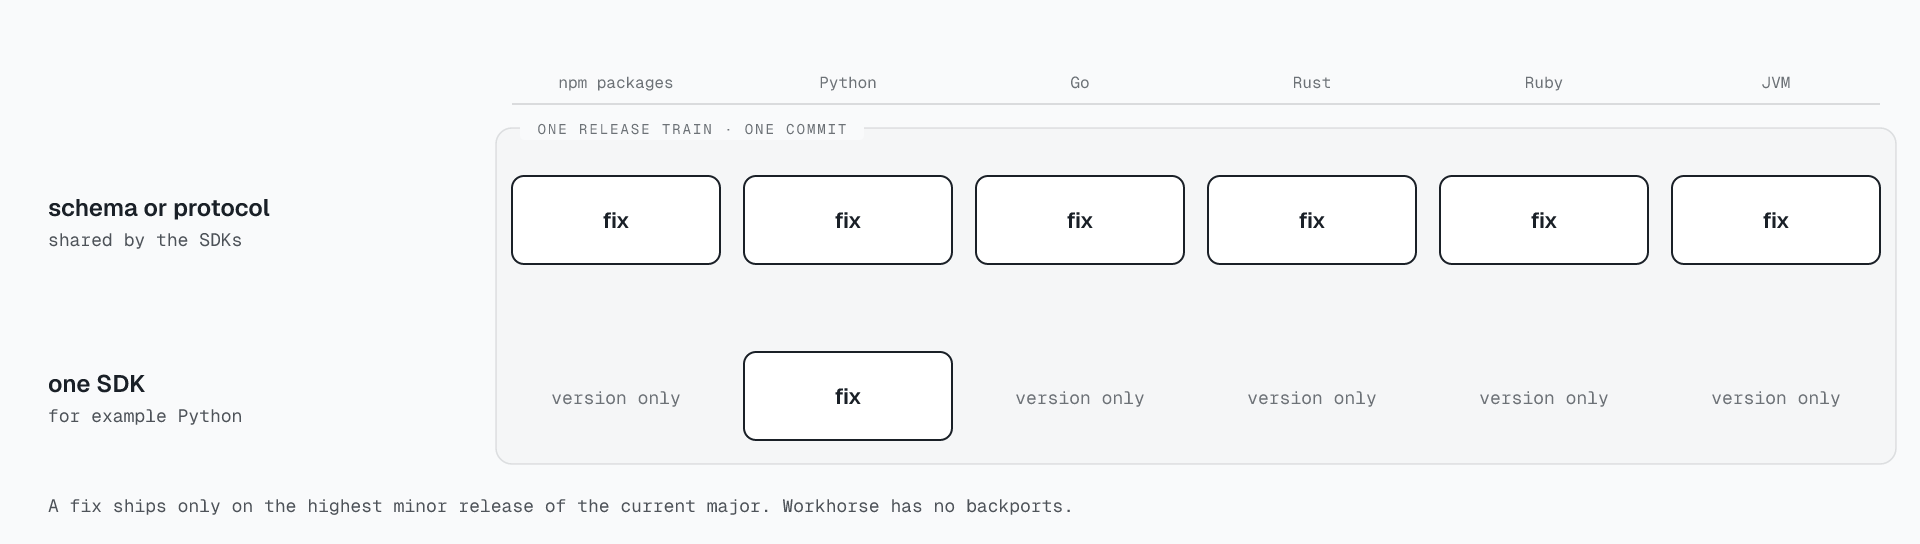
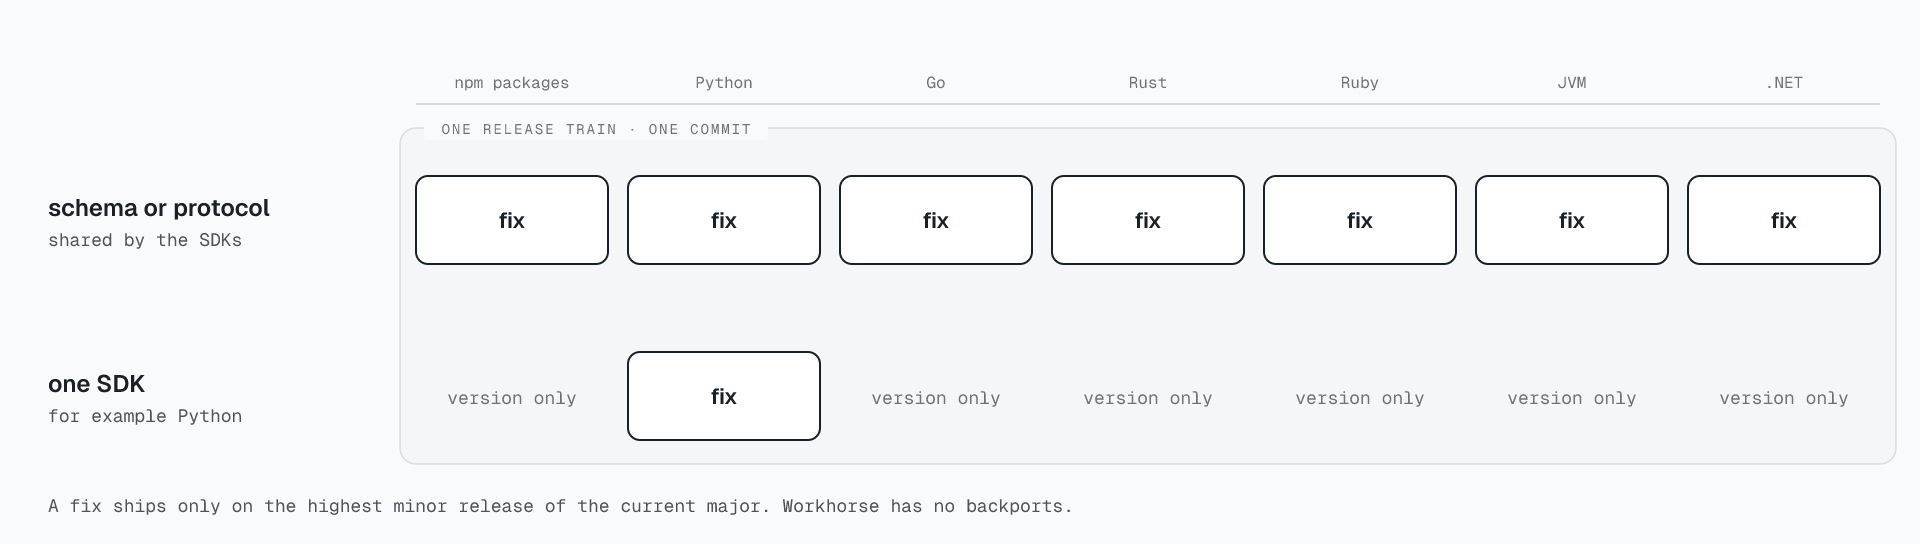
SM-1826 Name nuget.org on the install pages and the releases diagram
Release 0.10.0 published the four .NET packages to nuget.org. The
install pages, the .NET README, and several records still said that
NuGet does not serve the packages, so a .NET reader found no install
command. The releases diagram showed six lines and no .NET column,
although the releases page names seven lines.

Add `dotnet add package Workhorse` to the install surfaces: the .NET
README, the site installation, quickstart, and agent pages, and the
agent integration guide. The .NET README and the installation page
also give the commands for Workhorse.Hosting,
Workhorse.EntityFrameworkCore, and Workhorse.AspNetCore. State that
nuget.org serves the packages from 0.10.0 in docs/compatibility.md,
docs/features.md, and the amendment lines of ADR 0021, ADR 0054, and
ADR 0059. The install command test now requires install.dotnet on
those surfaces and keeps only the Gradle and Maven commands off the
README and site pages. A new rule requires the commands of the three
optional packages on the .NET README and the installation page.

Add a .NET column to the releases diagram. Narrow the columns so
seven columns fit the 960 px width, name the .NET line in the diagram
description, and generate the SVG and PNG files again.

diff --git a/scripts/install-commands.test.ts b/scripts/install-commands.test.ts
@@ -33,9 +33,9 @@ import { publishedPackages, repositoryRoot } from "./packages.js";
 // their only surface until then.
 //
 // A NuGet package needs no version: `dotnet add package` adds the newest release, so
-// `install.dotnet` follows the no-version rule. It names the core, `Workhorse`. No README or site
-// page shows it before NuGet serves the packages (SM-1441), so `docs/compatibility.md` is its only
-// surface until then.
+// `install.dotnet` follows the no-version rule. It names the core, `Workhorse`. nuget.org serves
+// the four packages from 0.10.0 (SM-1826), so the .NET README, the install pages, and
+// `docs/compatibility.md` show it.
 
 const execFileAsync = promisify(execFile);
 
@@ -86,22 +86,46 @@ const governedSurfaces: readonly GovernedSurface[] = [
   { file: "rust/README.md", commands: ["rust", "schemaPinned"] },
   { file: "ruby/README.md", commands: ["ruby", "schemaPinned"] },
   { file: "jvm/README.md", commands: ["schemaPinned"] },
-  { file: "dotnet/README.md", commands: ["schemaPinned"] },
+  { file: "dotnet/README.md", commands: ["dotnet", "schemaPinned"] },
   {
     file: "site/content/docs/installation.mdx",
-    commands: ["go", "node", "python", "ruby", "rust", "schema", "schemaDownload", "schemaPinned"],
+    commands: [
+      "dotnet",
+      "go",
+      "node",
+      "python",
+      "ruby",
+      "rust",
+      "schema",
+      "schemaDownload",
+      "schemaPinned",
+    ],
   },
   {
     file: "site/content/docs/quickstart.mdx",
-    commands: ["go", "node", "python", "ruby", "rust", "schema", "schemaPinned"],
+    commands: ["dotnet", "go", "node", "python", "ruby", "rust", "schema", "schemaPinned"],
   },
   {
     file: "site/content/docs/for-ai-agents.mdx",
-    commands: ["go", "node", "python", "ruby", "rust", "schema", "schemaPinned"],
+    commands: ["dotnet", "go", "node", "python", "ruby", "rust", "schema", "schemaPinned"],
+  },
+  {
+    file: "docs/guides/385-agent-integration.md",
+    commands: ["dotnet", "go", "node", "python", "ruby", "rust"],
   },
   { file: "site/content/docs/api.mdx", commands: ["schema", "schemaPinned"] },
   { file: "docs/compatibility.md", commands: ["dotnet", "gradle", "maven"] },
 ];
+
+/** The .NET packages that a project adds beside `Workhorse` when it uses them (ADR 0107). */
+const optionalDotnetPackages = [
+  "Workhorse.Hosting",
+  "Workhorse.EntityFrameworkCore",
+  "Workhorse.AspNetCore",
+] as const;
+
+/** The pages that list the four .NET packages with an install command for each. */
+const dotnetPackagePages = ["dotnet/README.md", "site/content/docs/installation.mdx"] as const;
 
 /** Markdown wraps prose at will, so a sentence rule compares runs of whitespace as one space. */
 function collapse(contents: string): string {
@@ -277,13 +301,28 @@ describe("install commands", () => {
     );
   });
 
-  it("keeps the Gradle, Maven, and NuGet commands off the README and site pages until the registries serve them", async () => {
+  // `install.dotnet` names only the core. The other three packages of ADR 0107 are optional, so
+  // support.json does not state them, but the two pages that list all four must give each command.
+  it("gives the command of each optional .NET package on the pages that list all four", async () => {
+    const missing: string[] = [];
+
+    for (const file of dotnetPackagePages) {
+      const contents = await read(file);
+      for (const id of optionalDotnetPackages) {
+        if (!contents.includes(`dotnet add package ${id}\n`)) missing.push(`${file}: ${id}`);
+      }
+    }
+
+    expect(missing).toEqual([]);
+  });
+
+  it("keeps the Gradle and Maven commands off the README and site pages", async () => {
     const manifest = await readInstallManifest();
     const shown: string[] = [];
 
     for (const [file, contents] of await documentedSurfaces()) {
       if (!file.endsWith("README.md") && !file.startsWith("site/")) continue;
-      for (const key of ["dotnet", "gradle", "maven"] as const) {
+      for (const key of ["gradle", "maven"] as const) {
         if (contents.includes(manifest.install[key])) shown.push(`${file}: install.${key}`);
       }
     }

diff --git a/scripts/releases-diagram.ts b/scripts/releases-diagram.ts
@@ -16,29 +16,30 @@ type Kind = "focal" | "backend" | "store" | "external";
 
 const title = "The location of the defect decides which lines change in a release train";
 const description =
-  "Each fix ships in a release train that publishes the npm packages, Python, Go, Rust, Ruby, and " +
-  "JVM lines at one version. If the defect is in the SQL schema or in the protocol that the SDKs " +
+  "Each fix ships in a release train that publishes the npm packages, Python, Go, Rust, Ruby, " +
+  "JVM, and .NET lines at one version. If the defect is in the SQL schema or in the protocol that the SDKs " +
   "share, each line gets the fix. If the defect is in one SDK, for example Python, that line gets " +
   "the fix. Each other line publishes the same version with no change. Each fix ships only on " +
   "the highest published minor release of the current major.";
 
-const lines = ["npm packages", "Python", "Go", "Rust", "Ruby", "JVM"] as const;
+const lines = ["npm packages", "Python", "Go", "Rust", "Ruby", "JVM", ".NET"] as const;
 
 const rows: readonly (readonly [label: readonly [string, string], released: readonly boolean[]])[] =
   [
     [
       ["schema or protocol", "shared by the SDKs"],
-      [true, true, true, true, true, true],
+      [true, true, true, true, true, true, true],
     ],
     [
       ["one SDK", "for example Python"],
-      [false, true, false, false, false, false],
+      [false, true, false, false, false, false, false],
     ],
   ];
 
-const LEFT = 256;
-const WIDTH = 104;
-const GAP = 12;
+// Seven columns of 96 px with 10 px gaps end at x = 940, so the diagram keeps its 960 px width.
+const LEFT = 208;
+const WIDTH = 96;
+const GAP = 10;
 const x = (index: number): number => LEFT + index * (WIDTH + GAP);
 
 /** The release diagram: one row for each defect location, one column for each line. */

diff --git a/docs/features.md b/docs/features.md
@@ -196,7 +196,7 @@ These primitives make selected handler boundaries durable while preserving Workh
 | Python worker SDK                       | Supported     | `stablemates-workhorse` provides synchronous `Worker` over Psycopg and asynchronous `AsyncWorker` over native Psycopg or asyncpg connections. Both share bounded concurrency, queue rotation, native notifications, ownership heartbeats, cancellation, durable checkpoints and timers, signal and human-decision waits, child tasks, batch handlers, schedule firing, OpenTelemetry signals, graceful drain, fenced settlement, database-scheduled retry, and shared runtime-fixture coverage.                                                                                                                                                                                                                                                                                                                                                                                                                                                                                                                                                                                                                                                                                                     |
 | Go client and worker SDK                | Supported     | The Go client supports transaction-aware enqueue and schedule sync over pgx v5 and `database/sql`. The worker provides bounded multi-queue concurrency, notifications with polling fallback, durable checkpoints and timers, signal and human-decision waits, linked child joins, batch delivery, schedule firing, telemetry, and bounded drain through `Worker.Run`. Child-set outcomes retain creation order and use statically checkable terminal variants; `RunChildrenAll` preserves propagation. A TypeScript worker can process children for a Go parent. A handler panic fails its attempt without stopping dispatch. Compiled process tests prove `SIGTERM` drain and `SIGKILL` lease recovery; shared fixtures exercise the public runtime. The module also exposes a `net/http` embedded dashboard backend that passes the shared HTTP contract. The release test derives all Go, pgx, and PostgreSQL support from shared declarations, runs an external consumer, and builds every example through the public module path.                                                                                                                                                              |
 | Public HTTP ingress API                 | Planned       | No supported application HTTP ingress exists today. A future versioned ingress contract will use separate listeners, credentials, authorization, and rate limits from the dashboard and administrative API; direct database enqueue remains available for caller-owned transactions.                                                                                                                                                                                                                                                                                                                                                                                                                                                                                                                                                                                                                                                                                                                                                                                                                                                                                                                |
-| Framework integrations                  | Supported     | By default, workers run in dedicated processes, and web applications use `Queue`, an ORM adapter, and the generic dashboard host directly ([ADR 0021](decisions/0021-no-framework-integration-packages.md)). Three shipped integrations are stated exceptions. The JVM artifact `workhorse-spring-boot-starter` builds `Queue` and `Admin` beans that join `@Transactional` transactions; its worker is off by default ([ADR 0103](decisions/0103-shape-the-jvm-sdk-as-a-java-core-with-kotlin-and-spring-boot-modules.md)). The Python distribution includes the optional `workhorse.django` Django Tasks backend ([ADR 0087](decisions/0087-bounded-django-tasks-backend.md)), and the Ruby gem includes an Active Job adapter ([ADR 0075](decisions/0075-shape-the-ruby-sdk-as-one-gem-with-an-active-job-adapter.md), [Active Job reachability](parity.md#active-job-reachability)). Neither integration is a separate distribution, and each runs its tasks in a dedicated worker. The .NET packages that [ADR 0107](decisions/0107-shape-the-dotnet-sdk-as-a-csharp-core-with-hosting-ef-core-and-asp-net-core-packages.md) defines are in the repository, but NuGet does not serve them yet. |
+| Framework integrations                  | Supported     | By default, workers run in dedicated processes, and web applications use `Queue`, an ORM adapter, and the generic dashboard host directly ([ADR 0021](decisions/0021-no-framework-integration-packages.md)). Three shipped integrations are stated exceptions. The JVM artifact `workhorse-spring-boot-starter` builds `Queue` and `Admin` beans that join `@Transactional` transactions; its worker is off by default ([ADR 0103](decisions/0103-shape-the-jvm-sdk-as-a-java-core-with-kotlin-and-spring-boot-modules.md)). The Python distribution includes the optional `workhorse.django` Django Tasks backend ([ADR 0087](decisions/0087-bounded-django-tasks-backend.md)), and the Ruby gem includes an Active Job adapter ([ADR 0075](decisions/0075-shape-the-ruby-sdk-as-one-gem-with-an-active-job-adapter.md), [Active Job reachability](parity.md#active-job-reachability)). Neither integration is a separate distribution, and each runs its tasks in a dedicated worker. nuget.org serves the .NET packages that [ADR 0107](decisions/0107-shape-the-dotnet-sdk-as-a-csharp-core-with-hosting-ef-core-and-asp-net-core-packages.md) defines from `0.10.0`, with one version for all. |
 | Additional ORM integrations             | Planned       | Drizzle, Prisma, TypeORM, Kysely, and Knex validate the database adapter boundary.                                                                                                                                                                                                                                                                                                                                                                                                                                                                                                                                                                                                                                                                                                                                                                                                                                                                                                                                                                                                                                                                                                                  |
 | Forward schema migration                | Supported     | Ordered, immutable steps begin at `0.2.0`, whose clean-install artifact is frozen as `sql/releases/0006.sql`. Inside a major line a migration only adds, so a client accepts any installed version at or above the one it was built against and a rolling deployment keeps working while the schema moves ahead of it. Migration 0025 is the one exception: a database from before 0.5.0 crosses it offline, as the [fast-tier cutover](schema-lifecycle.md#the-fast-tier-cutover) describes. `migrateSchema` runs from a deployment step behind an advisory lock, with a starting-version guard and atomic per-step rollback. A database below the `0.2.0` baseline is not carried forward: `0.1.x` had no production install, and the refusal names `0.2.1` as the last release that migrates one.                                                                                                                                                                                                                                                                                                                                                                                                |
 | Compatibility write views               | Not supported | Legacy write relations are intentionally absent to avoid dual-write semantics.                                                                                                                                                                                                                                                                                                                                                                                                                                                                                                                                                                                                                                                                                                                                                                                                                                                                                                                                                                                                                                                                                                                      |

diff --git a/docs/compatibility.md b/docs/compatibility.md
@@ -118,8 +118,8 @@ floor is Jakarta Servlet 6.0. CI tests the dashboard backend in the Tomcat relea
 tested Spring Boot line manages.
 
 The .NET SDK has four packages: `Workhorse`, `Workhorse.Hosting`, `Workhorse.EntityFrameworkCore`,
-and `Workhorse.AspNetCore`. NuGet does not serve them yet. After the first publish, a project adds
-the core with `dotnet add package Workhorse`, and `support.json` states that command as
+and `Workhorse.AspNetCore`. nuget.org serves them from `0.10.0`. A project adds the core with
+`dotnet add package Workhorse`, and `support.json` states that command as
 `install.dotnet`. Every package targets `net10.0`, and a .NET 11 application runs it without a
 second target. A local build uses the .NET SDK that `mise.toml` pins, which carries the .NET 10
 runtime. Pull requests and pushes run the .NET suite on .NET 10 and on .NET 11, against the newest
@@ -1341,7 +1341,7 @@ The .NET SDK has four packages for nuget.org: `Workhorse`, `Workhorse.Hosting`,
 ([ADR 0107](decisions/0107-shape-the-dotnet-sdk-as-a-csharp-core-with-hosting-ef-core-and-asp-net-core-packages.md)).
 The four always carry one version, the train version that `dotnet/Directory.Build.props` sets. Like
 the crate, the gem, and the JVM artifacts, they have no tag of their own and publish from the npm
-`v*` tag. nuget.org does not serve them yet. The `nuget` job of `.github/workflows/release.yml`
+`v*` tag. nuget.org serves them from `0.10.0`. The `nuget` job of `.github/workflows/release.yml`
 publishes them from each `v*` tag that has the version of `dotnet/Directory.Build.props`.
 
 `pnpm dotnet:package-check` is the dry run. It publishes nothing and reads no secret. The CI

diff --git a/docs/guides/385-agent-integration.md b/docs/guides/385-agent-integration.md
@@ -168,6 +168,7 @@ go get github.com/stablemates/workhorse/go
 cargo add workhorse
 bundle add stablemates-workhorse
 bundle add connection_pool
+dotnet add package Workhorse
 ```
 
 The Ruby SDK also needs the `connection_pool` gem.
@@ -175,8 +176,8 @@ The Ruby SDK also needs the `connection_pool` gem.
 Maven Central serves the three JVM artifacts from `0.9.0`. The JVM SDK has no install command
 here. Its README names the three artifacts and their supported versions.
 
-[Installation](https://workhorse.run/docs/installation.md) names the four packages of the .NET SDK.
-NuGet does not serve them yet, so the .NET SDK has no install command here.
+`dotnet add package Workhorse` adds the core of the .NET SDK from nuget.org.
+[Installation](https://workhorse.run/docs/installation.md) names the other three .NET packages.
 
 ### Enqueue in the transaction of your application data
 

diff --git a/dotnet/README.md b/dotnet/README.md
@@ -30,7 +30,20 @@ The .NET SDK has four NuGet packages. All four use one version.
 | `Workhorse.EntityFrameworkCore` | An enqueue in the transaction of a `DbContext`                         |
 | `Workhorse.AspNetCore`          | The embedded dashboard backend, mapped as ASP.NET Core endpoints       |
 
-NuGet does not serve these packages yet. This page gives no install command to copy.
+nuget.org serves the four packages from `0.10.0`. Add the core:
+
+```bash
+dotnet add package Workhorse
+```
+
+Add each other package that the application uses:
+
+```bash
+dotnet add package Workhorse.Hosting
+dotnet add package Workhorse.EntityFrameworkCore
+dotnet add package Workhorse.AspNetCore
+```
+
 [Compatibility](https://workhorse.run/docs/compatibility) states the supported .NET, Npgsql,
 EF Core, and ASP.NET Core versions.
 

diff --git a/docs/decisions/0059-assemble-the-1-0-0-specification.md b/docs/decisions/0059-assemble-the-1-0-0-specification.md
@@ -12,8 +12,8 @@
   Java API and the eleventh is the Kotlin API),
   [ADR 0106](0106-keep-the-release-lines-in-lockstep-after-1-0-0.md) (the lines stay in lockstep after 1.0.0),
   [ADR 0107](0107-shape-the-dotnet-sdk-as-a-csharp-core-with-hosting-ef-core-and-asp-net-core-packages.md) (the
-  specification assembles twelve surfaces; the twelfth is the C# API, whose packages NuGet does not
-  serve yet)
+  specification assembles twelve surfaces; the twelfth is the C# API, whose packages nuget.org serves
+  from `0.10.0`)
 - **Related:** [ADR 0054](0054-define-what-1-0-0-promises.md),
   [ADR 0055](0055-the-1-0-0-schema-boundary-adds-no-migration.md),
   [ADR 0056](0056-set-the-1-0-0-exit-criteria.md),

diff --git a/docs/decisions/0054-define-what-1-0-0-promises.md b/docs/decisions/0054-define-what-1-0-0-promises.md
@@ -12,8 +12,8 @@
   eleventh, and the three JVM artifacts ride the 1.0.0 train),
   [ADR 0106](0106-keep-the-release-lines-in-lockstep-after-1-0-0.md) (the lines stay in lockstep after 1.0.0),
   [ADR 0107](0107-shape-the-dotnet-sdk-as-a-csharp-core-with-hosting-ef-core-and-asp-net-core-packages.md) (the C# API
-  is a twelfth governed surface, and the four .NET packages join the 1.0.0 train; NuGet does not
-  serve them yet)
+  is a twelfth governed surface, and the four .NET packages join the 1.0.0 train; nuget.org serves
+  them from `0.10.0`)
 - **Related:** [ADR 0053](0053-start-migrations-at-0-1-0-and-keep-them-additive.md),
   [ADR 0056](0056-set-the-1-0-0-exit-criteria.md),
   WH-578,

diff --git a/docs/decisions/0021-no-framework-integration-packages.md b/docs/decisions/0021-no-framework-integration-packages.md
@@ -7,8 +7,8 @@
   stays the default topology),
   [ADR 0107](0107-shape-the-dotnet-sdk-as-a-csharp-core-with-hosting-ef-core-and-asp-net-core-packages.md) (three .NET
   framework packages, `Workhorse.Hosting`, `Workhorse.EntityFrameworkCore`, and `Workhorse.AspNetCore`;
-  a worker runs only in a process that calls `AddWorkhorseWorker`; NuGet does not serve the packages
-  yet)
+  a worker runs only in a process that calls `AddWorkhorseWorker`; nuget.org serves the
+  packages from `0.10.0`)
 - **Related:** [ADR 0012](0012-dedicated-worker-processes.md), [ADR 0018](0018-framework-neutral-dashboard-host.md)
 
 ## Context
